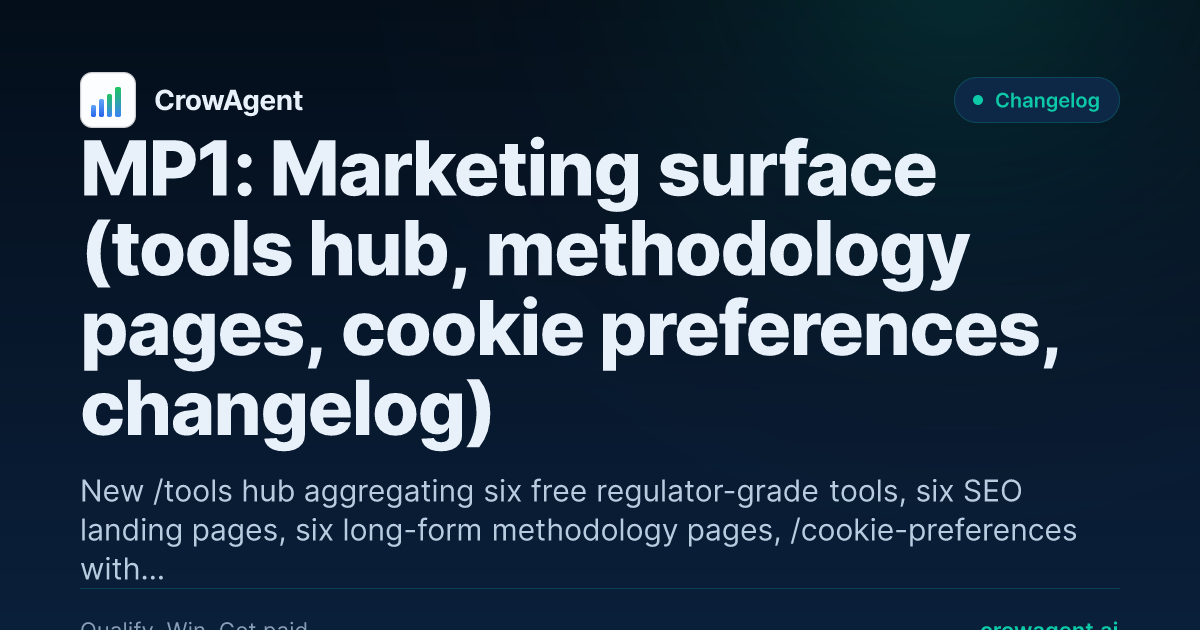
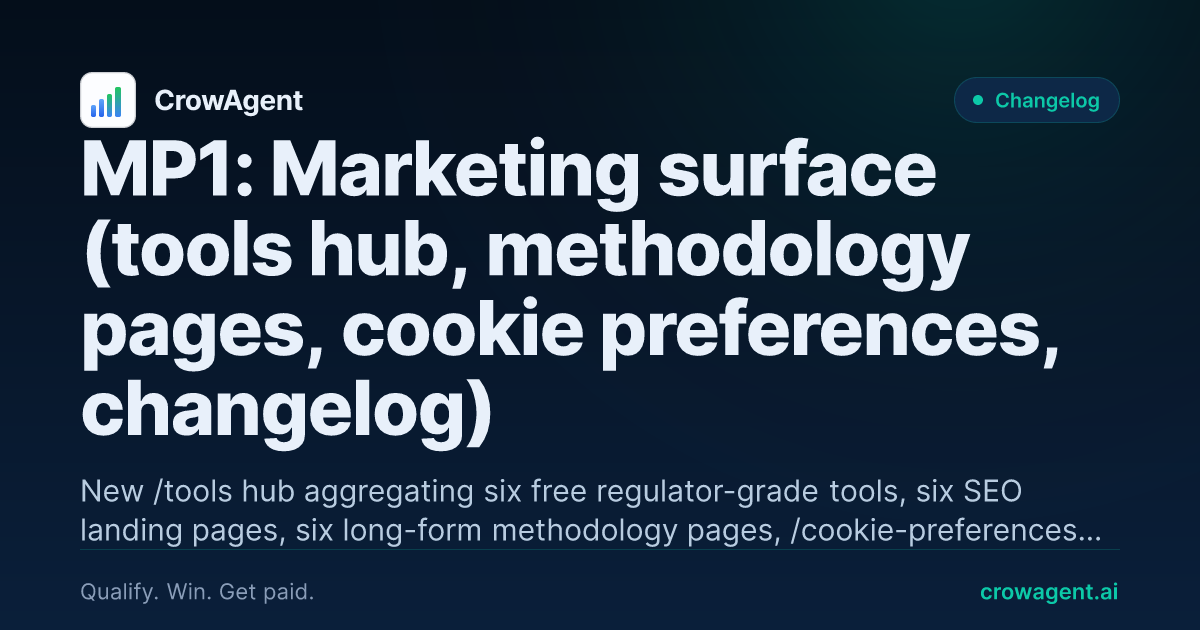
fix(seo): OG cards showed a price that does not exist and badged 12 pages "Blog"
Found by READING Assets/og/*.png rather than inspecting the config.

Two defects on live, publicly shared images:

1. pricing.png read "CrowMark from £99/mo - CSRD Checker free". pricing.html
   has sold Starter £49 / Pro £149 / Portfolio quoted since R2.6. £99 was not
   any tier, and the CSRD Checker no longer has a page. A social card quoting
   a nonexistent price is a credibility defect, not a cosmetic one.
   index.png advertised "PPN 002, Cyber Essentials and CSRD compliance for UK
   organisations" — the portfolio framing dropped when Core was switched off
   and CrowCyber moved to Phase 2.

2. Every static page without an explicit product was badged "Blog", because
   inferProduct() ended in an unconditional `return "blog"`. The homepage
   social card read "Blog" in its top-right corner. Twelve pages affected:
   index, pricing, about, contact, faq, roadmap, resources, partners,
   security, privacy, terms, cookies.

Root cause of (1) was a hand-maintained copy table duplicating each page's
title and description. A duplicate always drifts. STATIC_PAGES now names the
page it depicts and reads <title> + meta description FROM it, exactly as the
blog and glossary discovery already did — the only part of the generator that
had NOT drifted. A missing page is now a hard error instead of a silent skip.
Static titles follow the site's "Subject | Description" convention, so the
leading segment becomes the headline; deliberately not applied to blog or
[…]

diff --git a/scripts/generate-og-images.js b/scripts/generate-og-images.js
@@ -57,12 +57,15 @@ const BRAND = Object.freeze({
 });
 
 // CLAUDE.md §10 product accents.
+//
+// Only badges for things the site actually sells. The CSRD Checker, CrowCyber,
+// CrowCash and CrowESG accents were removed 2026-07-30: none has a page, and the
+// only tool left under tools/ is the PPN 002 calculator. Leaving them in place
+// meant any future slug containing "csrd", "cyber-essentials", "late-payment" or
+// "crowesg" would have silently badged its card with a product a visitor cannot
+// buy — the same failure mode that put "CrowCyber from £99/mo" on a live card.
 const PRODUCT_ACCENT = Object.freeze({
   crowmark:  { color: "#A78BFA", label: "CrowMark" },
-  csrd:      { color: "#5BC8FF", label: "CSRD Checker" },
-  crowcyber: { color: "#0CC9A8", label: "CrowCyber" },
-  crowcash:  { color: "#0CC9A8", label: "CrowCash" },
-  crowesg:   { color: "#F59E0B", label: "CrowESG" },
   blog:      { color: "#0CC9A8", label: "Blog" },
   changelog: { color: "#0CC9A8", label: "Changelog" },
 });
@@ -79,27 +82,75 @@ const MARK_BARS = Object.freeze([
 
 // ---------- explicit static page list ----------
 
+// Each entry names the page it depicts; the title and subtitle are read FROM that
+// page at render time, exactly as the blog and glossary discovery below already do.
+//
+// This used to be a hand-maintained copy table, and it drifted badly. Measured
+// 2026-07-30, before this change: `pricing.png` — a card that gets shared publicly
+// — read "CrowMark from £99/mo - CSRD Checker free", while pricing.html has sold
+// Starter £49 / Pro £149 / Portfolio quoted since R2.6. £99 was not any tier. The
+// homepage card advertised "PPN 002, Cyber Essentials and CSRD compliance", a
+// portfolio framing dropped when Core was switched off and CrowCyber went Phase 2.
+// A duplicate of page copy will always drift; reading the page cannot.
+//
+// `fallbackTitle` covers only the case where a page has no <title>, which the
+// render would otherwise fill with the bare word "CrowAgent".
 const STATIC_PAGES = [
-  { slug: "index",          title: "CrowAgent",           subtitle: "PPN 002, Cyber Essentials and CSRD compliance for UK organisations" },
-  { slug: "pricing",        title: "Transparent pricing",  subtitle: "CrowMark from £99/mo - CSRD Checker free" },
-  { slug: "about",          title: "About CrowAgent",     subtitle: "Compliance software built for UK landlords, suppliers and sustainability teams" },
-  { slug: "contact",        title: "Contact us",          subtitle: "Get in touch with the CrowAgent team" },
-  { slug: "demo",           title: "Book a demo",         subtitle: "See CrowAgent in action - 30-minute live walkthrough" },
-  { slug: "faq",            title: "FAQ",                  subtitle: "Frequently asked questions about CrowAgent products" },
-  { slug: "csrd",           title: "CSRD Checker",        subtitle: "Free Omnibus I applicability tool",                                                              product: "csrd" },
-  { slug: "crowmark",       title: "CrowMark",             subtitle: "PPN 002 social value scoring platform",                                                          product: "crowmark" },
-  { slug: "crowcyber",      title: "CrowCyber",            subtitle: "Cyber Essentials co-pilot for UK SMEs - from £99/mo",                                            product: "crowcyber" },
-  { slug: "crowcash",       title: "CrowCash",             subtitle: "Credit control and accounts receivable - from £79/mo",                                       product: "crowcash" },
-  { slug: "crowesg",        title: "CrowESG",              subtitle: "Multi-framework ESG reporting - GRI, TCFD, CSRD, ISSB, UK SDR (waitlist)",                       product: "crowesg" },
-  { slug: "roadmap",        title: "Roadmap",              subtitle: "Live tools and upcoming launches" },
-  { slug: "resources",      title: "Resources",            subtitle: "Guides and analysis for UK compliance teams" },
-  { slug: "partners",       title: "Partners",             subtitle: "Channel partner programme for consultants and advisors" },
-  { slug: "security",       title: "Security",             subtitle: "AES-256 encryption - UK data residency - GDPR" },
-  { slug: "privacy",        title: "Privacy Policy",       subtitle: "How we protect your personal data" },
-  { slug: "terms",          title: "Terms of Service",     subtitle: "Platform terms and conditions" },
-  { slug: "cookies",        title: "Cookie Policy",        subtitle: "How CrowAgent uses cookies" },
-  { slug: "blog",           title: "Blog",                  subtitle: "Regulatory intelligence and compliance guides",                                                  product: "blog" },
+  { slug: "index",     page: "index.html",       fallbackTitle: "CrowAgent" },
+  { slug: "pricing",   page: "pricing.html" },
+  { slug: "about",     page: "about.html" },
+  { slug: "contact",   page: "contact.html" },
+  { slug: "faq",       page: "faq.html" },
+  { slug: "crowmark",  page: "crowmark.html",    product: "crowmark" },
+  { slug: "roadmap",   page: "roadmap.html" },
+  { slug: "resources", page: "resources.html" },
+  { slug: "partners",  page: "partners.html" },
+  { slug: "security",  page: "security.html" },
+  { slug: "privacy",   page: "privacy.html" },
+  { slug: "terms",     page: "terms.html" },
+  { slug: "cookies",   page: "cookies.html" },
+  { slug: "blog",      page: "blog/index.html",  product: "blog" },
 ];
+
+// Slugs this generator used to emit for pages that no longer exist: `demo`,
+// `csrd`, `crowcyber`, `crowcash`, `crowesg`. Verified 2026-07-30 — none has a
+// page, and no HTML on the site references their PNG. They were still being
+// rendered every run, so four of them shipped cards quoting prices for products
+// that were decommissioned or never launched (CrowCyber "from £99/mo", CrowCash
+// "from £79/mo"). Removed from the list rather than regenerated. Deleting the
+// stale PNGs themselves is a separate call for the owner, since anyone who shared
+// one of those URLs in the past still resolves it today.
+const RETIRED_SLUGS = Object.freeze(["demo", "csrd", "crowcyber", "crowcash", "crowesg"]);
+
+// Read a static page's own <title> / meta description so the card cannot drift
+// from the page it represents. A missing page is a hard error: silently skipping
+// would leave a stale PNG in place and report success.
+function loadStaticPages(repoRoot) {
+  return STATIC_PAGES.map((entry) => {
+    const abs = path.join(repoRoot, entry.page);
+    if (!fs.existsSync(abs)) {
+      throw new Error(
+        `STATIC_PAGES entry "${entry.slug}" points at ${entry.page}, which does not exist. ` +
+          `Remove the entry (and consider whether Assets/og/${entry.slug}.png should still ship).`,
+      );
+    }
+    const html = fs.readFileSync(abs, "utf8");
+    const full = extractTitle(html) ?? entry.fallbackTitle ?? "CrowAgent";
+    // Static page <title>s follow the site convention "Subject | Description"
+    // ("CrowMark | Find UK tenders, draft grounded answers, prove delivery"). The
+    // card puts the subject in the large headline and the meta description in the
+    // subtitle, so take the leading segment. Verified against all 14 static titles
+    // 2026-07-30. Deliberately NOT applied to blog or glossary titles, which are
+    // free-form headlines that may legitimately contain a pipe.
+    const headline = full.split("|")[0].trim() || full;
+    return {
+      slug: entry.slug,
+      title: headline,
+      subtitle: extractMetaDescription(html) ?? "",
+      product: entry.product ?? null,
+    };
+  });
+}
 
 // ---------- helpers ----------
 
@@ -118,11 +169,36 @@ function structuredLog(level, message, context = {}) {
   }
 }
 
+// Truncate for the card without cutting mid-word.
+//
+// The old version sliced at an exact character count, which put "every plan has a
+// 14-day t…" on the live pricing card — a broken-looking fragment on an image whose
+// whole job is to look considered. Prefer ending on a sentence, fall back to a word
+// boundary, and only ever hard-cut a single word longer than the whole budget.
 function clip(input, max, fallback = "") {
   const s = String(input ?? fallback).trim();
   if (!s) return fallback;
   if (s.length <= max) return s;
-  return s.slice(0, max - 1).trimEnd() + "…";
+
+  const window = s.slice(0, max);
+
+  // A complete sentence reads as deliberate rather than truncated, so take one if
+  // it uses at least half the budget. Below that we'd be throwing away too much.
+  const sentence = window.search(/\.(?=[^.]*$)/) >= 0 ? window.lastIndexOf(".") : -1;
+  if (sentence >= Math.floor(max * 0.5)) return s.slice(0, sentence + 1);
+
+  // Otherwise cut at the last word boundary and signal the truncation. Drop a
+  // dangling connective too: "billing, MFA and…" reads as a mistake where
+  // "billing, MFA…" reads as an excerpt.
+  const space = window.lastIndexOf(" ");
+  if (space > 0) {
+    return s
+      .slice(0, space)
+      .replace(/\s+(?:and|or|but|with|for|from|to|of|in|on|at|by|the|a|an)$/i, "")
+      .replace(/[\s,;:—-]+$/, "") + "…";
+  }
+
+  return window.slice(0, max - 1) + "…";
 }
 
 // HTML entity decode for the small set we care about (titles + descriptions).
@@ -153,15 +229,22 @@ function extractMetaDescription(html) {
 }
 
 // Heuristic: assign a product accent based on the slug.
-function inferProduct(slug) {
+//
+// `fallback` is what to use when nothing matches, and it must be supplied by the
+// caller rather than defaulting to "blog". The old unconditional `return "blog"`
+// is why every static page that had no explicit product — index, pricing, about,
+// contact, faq, roadmap, resources, partners, security, privacy, terms, cookies —
+// shipped a card badged "Blog". The homepage social card, the most-shared URL on
+// the site, read "Blog" in the top-right corner. Verified 2026-07-30 by reading
+// Assets/og/index.png and Assets/og/pricing.png, not by inspecting the config.
+//
+// `null` resolves to DEFAULT_PRODUCT, the plain CrowAgent badge, which is the
+// correct answer for a page that is not about one product.
+function inferProduct(slug, fallback = null) {
   const s = slug.toLowerCase();
   if (s.includes("crowmark") || s.includes("ppn") || s.includes("social-value") || s.includes("toms")) return "crowmark";
-  if (s.includes("csrd") || s.includes("omnibus")) return "csrd";
-  if (s.includes("crowcyber") || s.includes("cyber-essentials")) return "crowcyber";
-  if (s.includes("crowcash") || s.includes("late-payment") || s.includes("credit-control")) return "crowcash";
-  if (s.includes("crowesg")) return "crowesg";
   if (s.includes("changelog")) return "changelog";
-  return "blog";
+  return fallback;
 }
 
 // Discover blog posts. Exclude index (already in STATIC_PAGES).
@@ -176,7 +259,8 @@ function discoverBlogPages(repoRoot) {
     const html = fs.readFileSync(path.join(dir, entry), "utf8");
     const title = extractTitle(html) ?? "CrowAgent blog";
     const subtitle = extractMetaDescription(html) ?? "Regulatory intelligence and compliance guides";
-    out.push({ slug, title, subtitle, product: inferProduct(entry) });
+    // A post is a post: "blog" is the right default when the topic matches nothing.
+    out.push({ slug, title, subtitle, product: inferProduct(entry, "blog") });
   }
   return out;
 }
@@ -194,7 +278,8 @@ function discoverGlossaryPages(repoRoot) {
     const html = fs.readFileSync(path.join(dir, entry), "utf8");
     const title = extractTitle(html) ?? "CrowAgent glossary";
     const subtitle = extractMetaDescription(html) ?? "Regulatory term definitions";
-    out.push({ slug, title, subtitle, product: inferProduct(entry) });
+    // A glossary entry is not a blog post; unmatched topics get the CrowAgent badge.
+    out.push({ slug, title, subtitle, product: inferProduct(entry, null) });
   }
   return out;
 }
@@ -211,7 +296,7 @@ function discoverIntelPages(repoRoot) {
     const html = fs.readFileSync(sub, "utf8");
     const title = extractTitle(html) ?? "CrowAgent intel";
     const subtitle = extractMetaDescription(html) ?? "Regulatory intelligence tracker";
-    out.push({ slug, title, subtitle, product: inferProduct(entry) });
+    out.push({ slug, title, subtitle, product: inferProduct(entry, null) });
   }
   return out;
 }
@@ -225,7 +310,7 @@ function discoverProductsPage(repoRoot) {
     slug: "products",
     title: extractTitle(html) ?? "CrowAgent Products",
     subtitle: extractMetaDescription(html) ?? "Sustainability compliance products",
-    product: "blog",
+    product: null,
   }];
 }
 
@@ -330,25 +415,32 @@ function buildOgTree({ title, subtitle, product }) {
           "CrowAgent",
         ),
       ),
-      h(
-        "div",
-        {
-          style: {
-            display: "flex",
-            alignItems: "center",
-            gap: 12,
-            padding: "10px 18px",
-            borderRadius: 999,
-            border: `1px solid ${BRAND.border}`,
-            backgroundColor: BRAND.surf2,
-            color: accent.color,
-            fontSize: 20,
-            fontWeight: 600,
-          },
-        },
-        h("div", { style: { width: 10, height: 10, borderRadius: 999, backgroundColor: accent.color } }),
-        accent.label,
-      ),
+      // The badge says which product or section the card belongs to, so it earns
+      // its place only when there is one. On a page that is not about a single
+      // product it resolved to DEFAULT_PRODUCT and rendered a "CrowAgent" chip
+      // sitting inches from the "CrowAgent" wordmark — the same word twice in one
+      // corner, carrying no information. Omitted instead.
+      accent === DEFAULT_PRODUCT
+        ? null
+        : h(
+            "div",
+            {
+              style: {
+                display: "flex",
+                alignItems: "center",
+                gap: 12,
+                padding: "10px 18px",
+                borderRadius: 999,
+                border: `1px solid ${BRAND.border}`,
+                backgroundColor: BRAND.surf2,
+                color: accent.color,
+                fontSize: 20,
+                fontWeight: 600,
+              },
+            },
+            h("div", { style: { width: 10, height: 10, borderRadius: 999, backgroundColor: accent.color } }),
+            accent.label,
+          ),
     ),
     // Headline block
     h(
@@ -478,9 +570,21 @@ async function main() {
   const outDir = path.join(repoRoot, "Assets", "og");
   fs.mkdirSync(outDir, { recursive: true });
 
+  // Surface stale cards rather than leaving them to a code comment. These slugs
+  // are no longer rendered, so without this the PNGs would just sit in Assets/og
+  // and keep shipping, which is how they went unnoticed in the first place.
+  const stale = RETIRED_SLUGS.filter((s) => fs.existsSync(path.join(outDir, `${s}.png`)));
+  if (stale.length > 0) {
+    structuredLog("warn", "Retired OG cards still present on disk", {
+      operation: "audit-retired-slugs",
+      slugs: stale,
+      note: "No page and no HTML reference. They are no longer regenerated; deleting them is an owner decision because previously shared URLs still resolve.",
+    });
+  }
+
   // Build the full page list.
   const pages = [
-    ...STATIC_PAGES,
+    ...loadStaticPages(repoRoot),
     ...discoverBlogPages(repoRoot),
     ...discoverGlossaryPages(repoRoot),
     ...discoverIntelPages(repoRoot),
@@ -490,7 +594,7 @@ async function main() {
     slug: p.slug,
     title: clip(p.title, 90, "CrowAgent"),
     subtitle: clip(p.subtitle, 140, ""),
-    product: p.product ?? inferProduct(p.slug),
+    product: p.product ?? inferProduct(p.slug, null),
   }));
 
   const filtered = slugFilter ? pages.filter((p) => p.slug === slugFilter) : pages;

diff --git a/scripts/build-dist.js b/scripts/build-dist.js
@@ -90,14 +90,20 @@ const ROOT_DENY = new Set([
  * DELIBERATELY NOT LISTED: `Doc/` (2 legal PDFs, 510 KB, both unreferenced). Stale or
  * archived legal documents may be linked from a contract or an email, so withdrawing
  * them is an owner decision, not a build cleanup. Flagged in the backlog.
- * Also left: Assets/logo (4 KB) and Assets/og/avif (9 KB) — too small to be worth
- * risking a brand asset over.
+ * Also left: Assets/logo (4 KB) — too small to be worth risking a brand asset over.
+ *
+ * Assets/og/avif WAS left on the same "too small to matter" reasoning, and is now
+ * denied. It holds one file, crowmark.avif, dated 2026-05-12, referenced by zero
+ * pages. Regenerating the OG cards on 2026-07-30 changed the CrowMark card's copy,
+ * so that AVIF became a publicly fetchable picture of a card that no longer exists.
+ * Size stopped being the deciding factor once the content went stale.
  */
 const ASSET_DENY_DIRS = [
   path.join("Assets", "product-shots"),
   path.join("Assets", "marketing-screenshots"),
   path.join("Assets", "photos", "sectors"),
   path.join("Assets", "blog-heroes"),
+  path.join("Assets", "og", "avif"),
 ];
 let deniedFiles = 0, deniedBytes = 0;
 
